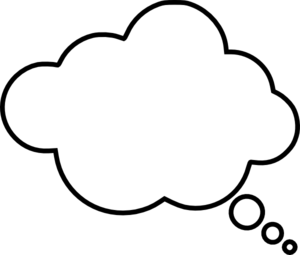
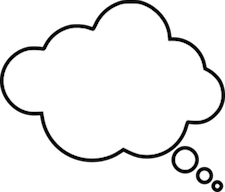
add floating to think bubble

diff --git a/css/styles.css b/css/styles.css
@@ -17,6 +17,33 @@
     80% { transform: translateX(0%) skewX(-15deg); opacity: 1; }
     100% { transform: translateX(0%) skewX(0deg); opacity: 1; }
 }
+.floating{
+    float: left;
+    -webkit-animation-name: Floatingx;
+    -webkit-animation-duration: 3s;
+    -webkit-animation-iteration-count: infinite;
+    -webkit-animation-timing-function: ease-in-out;
+    -moz-animation-name: Floating;
+    -moz-animation-duration: 3s;
+    -moz-animation-iteration-count: infinite;
+    -moz-animation-timing-function: ease-in-out;
+    margin-left: 30px;
+    margin-top: 5px;
+
+}
+
+@-webkit-keyframes Floatingx{
+    from {-webkit-transform:translate(0, 0px);}
+    65% {-webkit-transform:translate(0, 15px);}
+    to {-webkit-transform: translate(0, -0px);    }
+}
+
+@-moz-keyframes Floating{
+    from {-moz-transform:translate(0, 0px);}
+    65% {-moz-transform:translate(0, 15px);}
+    to {-moz-transform: translate(0, -0px);}
+}
+
 .animated {
    -webkit-animation-duration: 1s;
    animation-duration: 1s;
@@ -86,7 +113,24 @@ body {
   left: 1115px;
   top: 100px;
 }
-
+.thinkBubble {
+  position: absolute;
+  left: 145px;
+}
+.thinkBubbleSentence {
+  font-family: 'Fontdiner Swanky', cursive;
+  font-size: 20px;
+  position: absolute;
+  top: 75px;
+  left: 170px;
+}
+/*.thinkBubble:hover:after {
+  font-family: 'Fontdiner Swanky', cursive;
+  content: "Let's play fetch!";
+}*/
+h4 {
+  border-bottom: 2px dotted black;
+}
 .bubbleContent {
   float: left;
   position: absolute;

diff --git a/index.html b/index.html
@@ -4,10 +4,13 @@
     <link rel="stylesheet" href="css/styles.css" media="screen" title="no title">
     <link rel="stylesheet" href="font-awesome/css/font-awesome.min.css">
     <link href='https://fonts.googleapis.com/css?family=Puritan:400,700,400italic' rel='stylesheet' type='text/css'>
+    <link href='https://fonts.googleapis.com/css?family=Fontdiner+Swanky' rel='stylesheet' type='text/css'>
     <title>ifetch</title>
   </head>
   <body>
     <div class="overLord">
+      <img class="thinkBubble floating" src="img/thinkBubble.png" alt="a picture of a think bubble">
+      <span class="thinkBubbleSentence floating">Let's play fetch! </span>
       <img class="firstPlace" src="img/firstPlace.jpg" alt="a picture of first place at SuperZoo awards">
       <img class="blueRibbon" src="img/blueRibbon.png" alt="a picture of a blue ribbon">
       <span class="firstSentence animated lightSpeedIn">
@@ -25,7 +28,7 @@
       </div>
 
       <div class="bubbleContent">
-        <h4>ifetch</h4>
+        <h4>Behind the ifetch</h4>
       </div>
 
 
